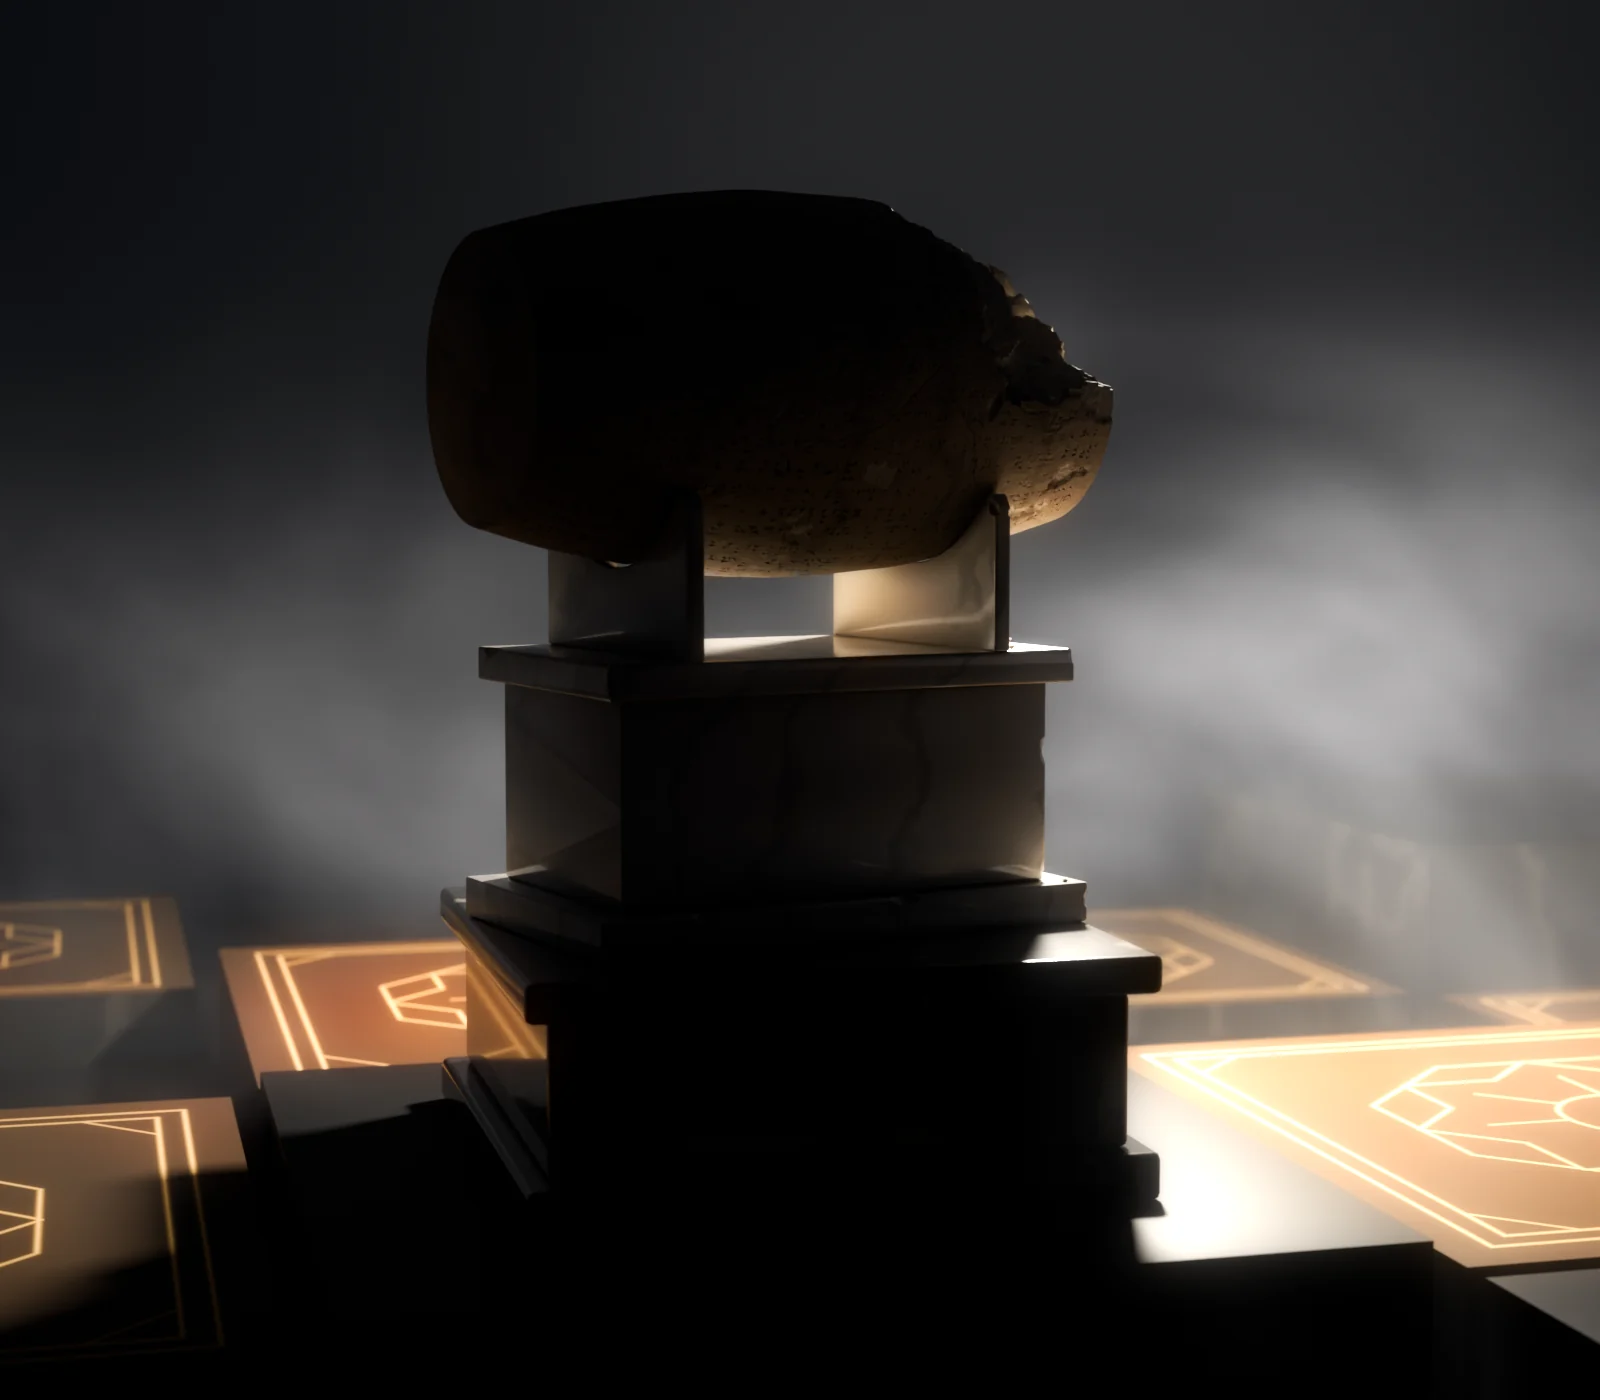
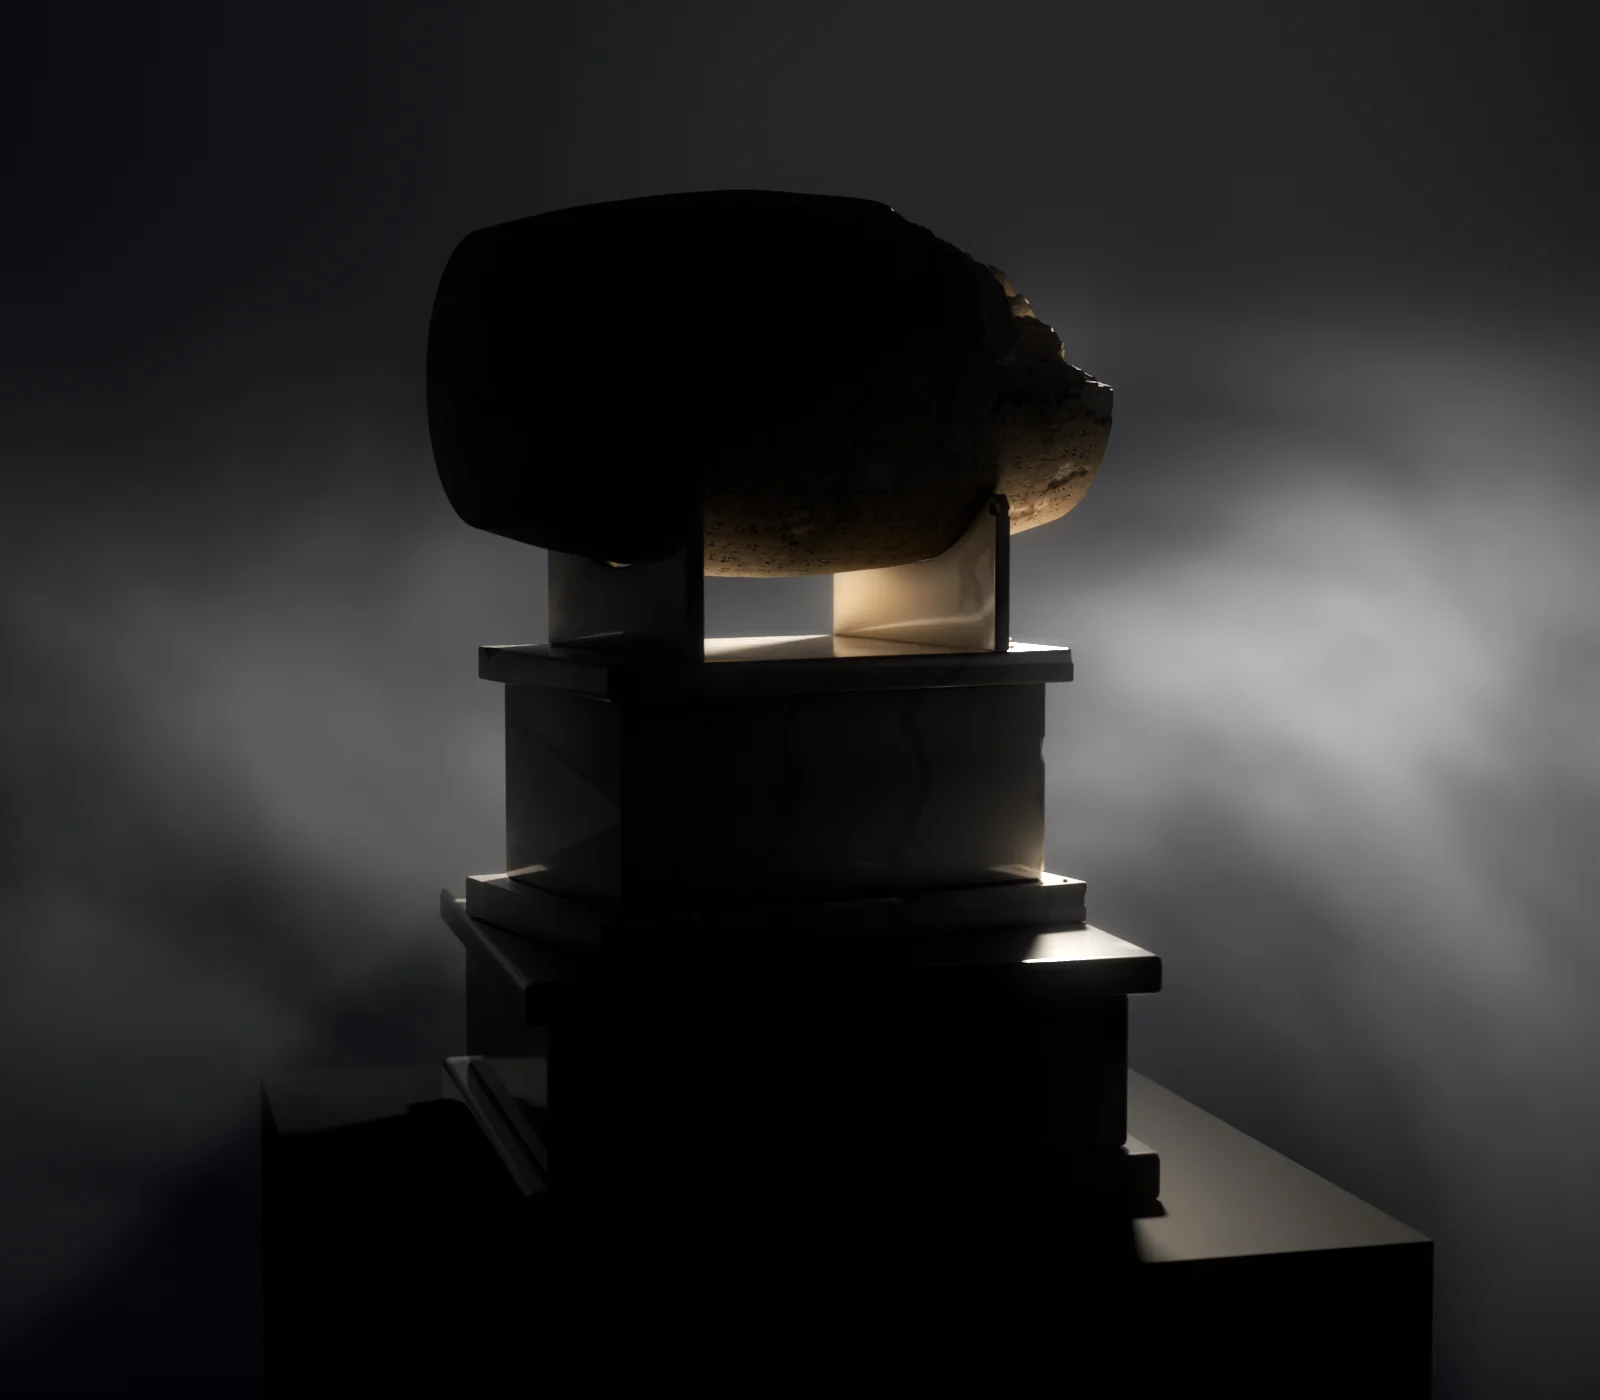
fix(blender): solo builds only the piece's own block; poster foreground dark

Changed region(s): [[0.625, 0.5529, 1.0, 1.0], [0.0, 0.5836, 0.3438, 0.9521], [0.6562, 0.3379, 0.6875, 0.3686]]

diff --git a/blender/hero/solo.py b/blender/hero/solo.py
@@ -3,7 +3,7 @@
 SOLO[pid] holds what differs per piece. Positions are in Blender world metres; the piece's base (the top of
 its plinth) is at (ox, oy, PLATFORM[pid] + PLINTH_H), where (ox, oy) keeps its hero offset inside a tile
 (centred, or astride two), so a patch of the hero's board fits round it.
-  tiles   patch size in tiles (x, y): one row in front of the piece's tile, the rest behind
+  tiles   the nominal stage in tiles (x, y), for layout.json; only the piece's own block is built (patch)
   light   the one point light, relative to the piece base: a little behind (+y), to one side, about
           0.7-0.9 of the piece's height up, so a lit edge wraps onto the front
   energy  watts: 900 * (d / 1.5)^2, d the light's distance to the piece's centre (the hero's irradiance)
@@ -59,17 +59,45 @@ def offset_in_tile(pid):
 
 
 def patch(pid):
-    """Centre and size for build_board so it makes exactly tiles[0] x tiles[1] tiles round the piece,
-    and the patch's real extent (centre, size) for layout.json."""
+    """Centre and size for build_board so it makes only the block the piece stands on (both, where it stands
+    astride a seam), and the nominal stage (centre, size) for layout.json, which the live board fade is
+    measured on: far bigger than the block, so the fade never reaches it."""
     nx, ny = SOLO[pid]["tiles"]
     ox, oy = offset_in_tile(pid)
-    ci, cj = round(ox / TILE), round(oy / TILE)
-    i0, i1 = ci - (nx - 1) // 2, ci + nx // 2
-    j0, j1 = cj - 1, cj + ny - 2                     # one row in front of the piece, the rest behind it
+    own = [[k for k in range(-2, 3) if abs(k * TILE - o) < scene.REACH] for o in (ox, oy)]
+    (i0, i1), (j0, j1) = ((c[0], c[-1]) for c in own)
+    if (i1 - i0 + 1) * (j1 - j0 + 1) > 2:
+        raise RuntimeError(f"{pid} stands on more than two tiles")
     centre = ((i0 + i1) / 2 * TILE, (j0 + j1) / 2 * TILE)
     # build_board spans floor(x0 / TILE) .. ceil((x0 + size) / TILE): tile centres on both ends
     size = ((i1 - i0) * TILE, (j1 - j0) * TILE)
-    return centre, size, (nx * TILE, ny * TILE)
+    ci, cj = round(ox / TILE), round(oy / TILE)
+    a0, a1 = ci - (nx - 1) // 2, ci + nx // 2
+    b0, b1 = cj - 1, cj + ny - 2
+    stage = ((a0 + a1) / 2 * TILE, (b0 + b1) / 2 * TILE)
+    return centre, size, stage, (nx * TILE, ny * TILE)
+
+
+def _sink(mat, top):
+    """The block has no floor to stand on: its sides (stone and sheen) sink to black below the top."""
+    nt = mat.node_tree
+    N, Lk, b = nt.nodes, nt.links, nt.nodes["Principled BSDF"]
+    geo, sep, k = N.new("ShaderNodeNewGeometry"), N.new("ShaderNodeSeparateXYZ"), N.new("ShaderNodeMapRange")
+    Lk.new(geo.outputs["Position"], sep.inputs[0])
+    k.interpolation_type = "SMOOTHSTEP"
+    k.inputs["From Min"].default_value, k.inputs["From Max"].default_value = top - 0.5, top
+    Lk.new(sep.outputs["Z"], k.inputs["Value"])
+    mul = N.new("ShaderNodeMixRGB")
+    mul.blend_type = "MULTIPLY"
+    mul.inputs["Fac"].default_value = 1.0
+    Lk.new(b.inputs["Base Color"].links[0].from_socket, mul.inputs["Color1"])
+    Lk.new(k.outputs["Result"], mul.inputs["Color2"])
+    Lk.new(mul.outputs[0], b.inputs["Base Color"])
+    sp = N.new("ShaderNodeMath")
+    sp.operation = "MULTIPLY"
+    sp.inputs[1].default_value = 0.15
+    Lk.new(k.outputs["Result"], sp.inputs[0])
+    Lk.new(sp.outputs[0], b.inputs["Specular IOR Level"])
 
 
 def seed_for(pid):
@@ -95,7 +123,14 @@ def _clear_round(haze, at, radii):
     Lk.new(dist.outputs["Value"], k.inputs["Value"])
     mul = N.new("ShaderNodeMath"); mul.operation = "MULTIPLY"
     Lk.new(src, mul.inputs[0]); Lk.new(k.outputs["Result"], mul.inputs[1])
-    Lk.new(mul.outputs[0], vol.inputs["Density"])
+    sep = N.new("ShaderNodeSeparateXYZ")
+    Lk.new(geo.outputs["Position"], sep.inputs[0])
+    fl = N.new("ShaderNodeMapRange"); fl.interpolation_type = "SMOOTHSTEP"
+    fl.inputs["From Min"].default_value, fl.inputs["From Max"].default_value = -0.5, 1.0
+    Lk.new(sep.outputs["Z"], fl.inputs["Value"])
+    m2 = N.new("ShaderNodeMath"); m2.operation = "MULTIPLY"
+    Lk.new(mul.outputs[0], m2.inputs[0]); Lk.new(fl.outputs["Result"], m2.inputs[1])
+    Lk.new(m2.outputs[0], vol.inputs["Density"])
 
 
 def build_solo(pid, draft=False):
@@ -116,20 +151,26 @@ def build_solo(pid, draft=False):
         ob.data.materials.append(m)
     pl.data.materials.append(plinth_mat)
 
-    centre, size, extent = patch(pid)
-    board = scene.build_board(center=centre, size=size, placement={pid: (ox, oy, yaw)}, platform={pid: platform},
-                              seed=seed_for(pid), back=True)
+    own, size, centre, extent = patch(pid)
+    board = scene.build_board(center=own, size=size, placement={pid: (ox, oy, yaw)}, platform={pid: platform},
+                              seed=seed_for(pid), back=True, lo=-2.0)
+    if len(board.data.polygons) not in (5, 10):
+        raise RuntimeError(f"board has {len(board.data.polygons)} faces, expected one or two blocks of 5")
     # the inlay's own glow is for the far hero board; at a few metres it reads too hot
-    for n in M["board"].node_tree.nodes:
-        if n.bl_idname == "ShaderNodeMath" and n.operation == "MULTIPLY" and abs(n.inputs[1].default_value - 0.04) < 1e-6:
-            n.inputs[1].default_value = 0.012
+    bn = M["board"].node_tree.nodes
+    glow = [n for n in bn if n.bl_idname == "ShaderNodeMath" and n.operation == "MULTIPLY"
+            and abs(n.inputs[1].default_value - 0.04) < 1e-6]
     # the warm tiles: the hero sees them from 10 m at a slant; here they fill the foreground and outshone the piece
-    for n in M["board"].node_tree.nodes:
-        if n.bl_idname == "ShaderNodeMixRGB" and tuple(round(c, 3) for c in n.inputs["Color2"].default_value[:3]) == (0.1, 0.058, 0.028):
-            n.inputs["Color2"].default_value = (0.055, 0.032, 0.016, 1)
+    warm = [n for n in bn if n.bl_idname == "ShaderNodeMixRGB"
+            and tuple(round(c, 3) for c in n.inputs["Color2"].default_value[:3]) == (0.1, 0.058, 0.028)]
+    if len(glow) != 1 or len(warm) != 1:
+        raise RuntimeError(f"board material changed: {len(glow)} glow and {len(warm)} warm-stone nodes, expected 1 each")
+    glow[0].inputs[1].default_value = 0.012
+    warm[0].inputs["Color2"].default_value = (0.055, 0.032, 0.016, 1)
     # honed stone seen close and low: less sheen, or the tops mirror the lit fog to white
     scene._set(M["board"].node_tree.nodes["Principled BSDF"], **{"Specular IOR Level": 0.15})
     board.data.materials.append(M["board"])
+    _sink(M["tile-side"], platform)
     board.data.materials.append(M["tile-side"])
 
     sc = bpy.context.scene
@@ -145,10 +186,11 @@ def build_solo(pid, draft=False):
     # the fog: a smaller box round the patch, with the hero's banks metre for metre. A little thinner than the
     # hero's: the camera is close to the light, and 1.6x (then 1.15x) washed the frame out round it
     hz = S["haze"]
-    hloc = (centre[0], oy + hz["front"] + hz["depth"] / 2, 2.5)
-    hscale = (hz["width"], hz["depth"], 5.0)
+    # z -2 .. 5, thinned out below the block's top (_clear_round): with no floor, a box ending at z 0 showed its edge
+    hloc = (centre[0], oy + hz["front"] + hz["depth"] / 2, 1.5)
+    hscale = (hz["width"], hz["depth"], 7.0)
     ns, lo = scene.haze_mapping(hloc, hscale, hz["top"])
-    haze = scene.build_haze(loc=hloc, scale=hscale, noise_loc=(3.1, 0.7, 0.0), dens=(0.0035 * hz["dens"], 0.15 * hz["dens"]),
+    haze = scene.build_haze(loc=hloc, scale=hscale, noise_loc=(3.1, 0.7, -0.75), dens=(0.0035 * hz["dens"], 0.15 * hz["dens"]),
                             noise_scale=ns, low_z=lo)
     _clear_round(haze, light.location, S.get("clear", (0.25, 1.0)))
 
@@ -166,6 +208,60 @@ def build_solo(pid, draft=False):
     bpy.context.view_layer.update()
     return {"id": pid, "pieces": {pid: ob}, "plinths": {pid: pl}, "board": board, "lights": [light], "haze": haze,
             "cam_solo": cam, "patch": (centre, extent), "base": base}
+
+
+def poster_look(board, sheen=0.12, albedo=0.5, glow=0.15):
+    """For the still only (the bakes have no gloss and keep the real board): as the camera sees them, the tiles
+    have little sheen, darker stone and a fainter inlay, so none outshines the piece's lit edge. Every other ray
+    meets the real board: its bounce is the only fill on the front of the piece, and without it the writing
+    goes black. Returns a function that undoes it."""
+    undo = []
+    for mat in board.data.materials:
+        nt = mat.node_tree
+        b, out = nt.nodes["Principled BSDF"], nt.nodes["Material Output"]
+        made = []
+
+        def new(kind):
+            made.append(nt.nodes.new(kind))
+            return made[-1]
+        d = new("ShaderNodeBsdfPrincipled")
+        for a, c in zip(b.inputs, d.inputs):
+            if a.is_linked:
+                nt.links.new(a.links[0].from_socket, c)
+            elif hasattr(a, "default_value"):
+                c.default_value = a.default_value
+        for name, k in (("Specular IOR Level", sheen), ("Metallic", 0.0), ("Emission Strength", glow)):
+            sock = d.inputs[name]
+            if sock.is_linked:
+                n = new("ShaderNodeMath")
+                n.operation = "MULTIPLY"
+                n.inputs[1].default_value = k
+                nt.links.new(sock.links[0].from_socket, n.inputs[0])
+                nt.links.new(n.outputs[0], sock)
+            else:
+                sock.default_value *= k
+        col = new("ShaderNodeMixRGB")
+        col.blend_type = "MULTIPLY"
+        col.inputs["Fac"].default_value = 1.0
+        col.inputs["Color2"].default_value = (albedo, albedo, albedo, 1)
+        nt.links.new(d.inputs["Base Color"].links[0].from_socket, col.inputs["Color1"])
+        nt.links.new(col.outputs[0], d.inputs["Base Color"])
+        lp, mix = new("ShaderNodeLightPath"), new("ShaderNodeMixShader")
+        nt.links.new(lp.outputs["Is Camera Ray"], mix.inputs[0])
+        nt.links.new(b.outputs[0], mix.inputs[1])
+        nt.links.new(d.outputs[0], mix.inputs[2])
+        nt.links.new(mix.outputs[0], out.inputs["Surface"])
+
+        def back(nt=nt, made=made, b=b, out=out):
+            for n in made:
+                nt.nodes.remove(n)
+            nt.links.new(b.outputs[0], out.inputs["Surface"])
+        undo.append(back)
+
+    def restore():
+        for u in undo:
+            u()
+    return restore
 
 
 # ---------------------------------------------------------------- the clay sheet

diff --git a/blender/build_hero.py b/blender/build_hero.py
@@ -38,7 +38,7 @@ def parse():
                     default="all")
     ap.add_argument("--draft", action="store_true")
     ap.add_argument("--piece", action="append", help="solo stages: a piece id (repeatable)")
-    ap.add_argument("--poster-only", action="store_true", help="solo: poster and layout, no bakes (for tuning)")
+    ap.add_argument("--poster-only", action="store_true", help="solo: the poster only; solo.glb and layout.json stay as they are")
     return ap.parse_args(argv)
 
 
@@ -151,10 +151,12 @@ def stage_solo(ids, draft, clay_only, poster_only=False):
         ok &= report(objs["pieces"], SOLO_TRI_MAX)
         os.makedirs(assets_dir, exist_ok=True)
         use_cycles(64 if draft else S["samples"])
+        restore = solo.poster_look(objs["board"])
         output.render_poster(objs, objs["cam_solo"], "poster", assets_dir, out_dir, draft)
-        output.write_solo_layout(objs, assets_dir)
-        if poster_only:
+        restore()                                # the bakes see the real board
+        if poster_only:                          # layout.json goes with the glb: leave both alone
             continue
+        output.write_solo_layout(objs, assets_dir)
         sizes = {k: (v // 2 if draft else v) for k, v in S["tex"].items()}
         use_cycles(48 if draft else S["samples"])
         output.bake_and_export(objs, assets_dir, out_dir, draft, ids=[pid], cam=objs["cam_solo"], sizes=sizes,

diff --git a/blender/hero/scene.py b/blender/hero/scene.py
@@ -258,11 +258,11 @@ def board_material():
 
 
 def build_board(center=BOARD_CENTER, size=BOARD_SIZE, placement=PLACEMENT, platform=PLATFORM, seed=11,
-                back=False, name="board"):
+                back=False, name="board", lo=-0.6):
     """Blocks of stone at uneven heights. Tops carry the inlay; sides are plain dark stone.
     UVs: tops are a straight top-down projection in the upper 80% of the map, the visible
     sides (front, left, right) are packed into a strip along the bottom. back=True also builds the back face
-    (the hero never does; a close, tilted solo view can see it). The rng call order is the hero's."""
+    (the hero never does; a close, tilted solo view can see it). The rng call order is the hero's. lo: how far down the sides go."""
     rng = random.Random(seed)
     x0, y0 = center[0] - size[0] / 2, center[1] - size[1] / 2
     kx = range(int(math.floor(x0 / TILE)), int(math.ceil((x0 + size[0]) / TILE)) + 1)
@@ -281,7 +281,6 @@ def build_board(center=BOARD_CENTER, size=BOARD_SIZE, placement=PLACEMENT, platf
                 if abs(cx - px) < reach and abs(cy - py) < reach:
                     h = platform[pid]
             a = TILE / 2 - TILE_GAP / 2
-            lo = -0.6
             c = [(cx - a, cy - a), (cx + a, cy - a), (cx + a, cy + a), (cx - a, cy + a)]
             top = bm.faces.new([bm.verts.new((x, y, h)) for x, y in c])
             for loop in top.loops:

diff --git a/blender/hero/solo_pieces.py b/blender/hero/solo_pieces.py
@@ -523,9 +523,10 @@ def build_cyrus():
         pb.from_mesh(me)
         n0 = len(pb.faces)
         gone = [f for f in pb.faces if any(r(f) for r in rules)]
+        n_gone = len(gone)
         bmesh.ops.delete(pb, geom=gone, context="FACES")
-        if not pb.faces:
-            raise RuntimeError(f"mount part {me.name}: nothing left after dropping hidden faces")
+        if n_gone != len(rules) or not pb.faces:      # one flat face per covered plane, and nothing else
+            raise RuntimeError(f"mount part {me.name}: dropped {n_gone} hidden faces, expected {len(rules)}")
         print(f"  {me.name}: {n0} faces, {len(gone)} hidden dropped")
         pb.to_mesh(me)
         pb.free()
